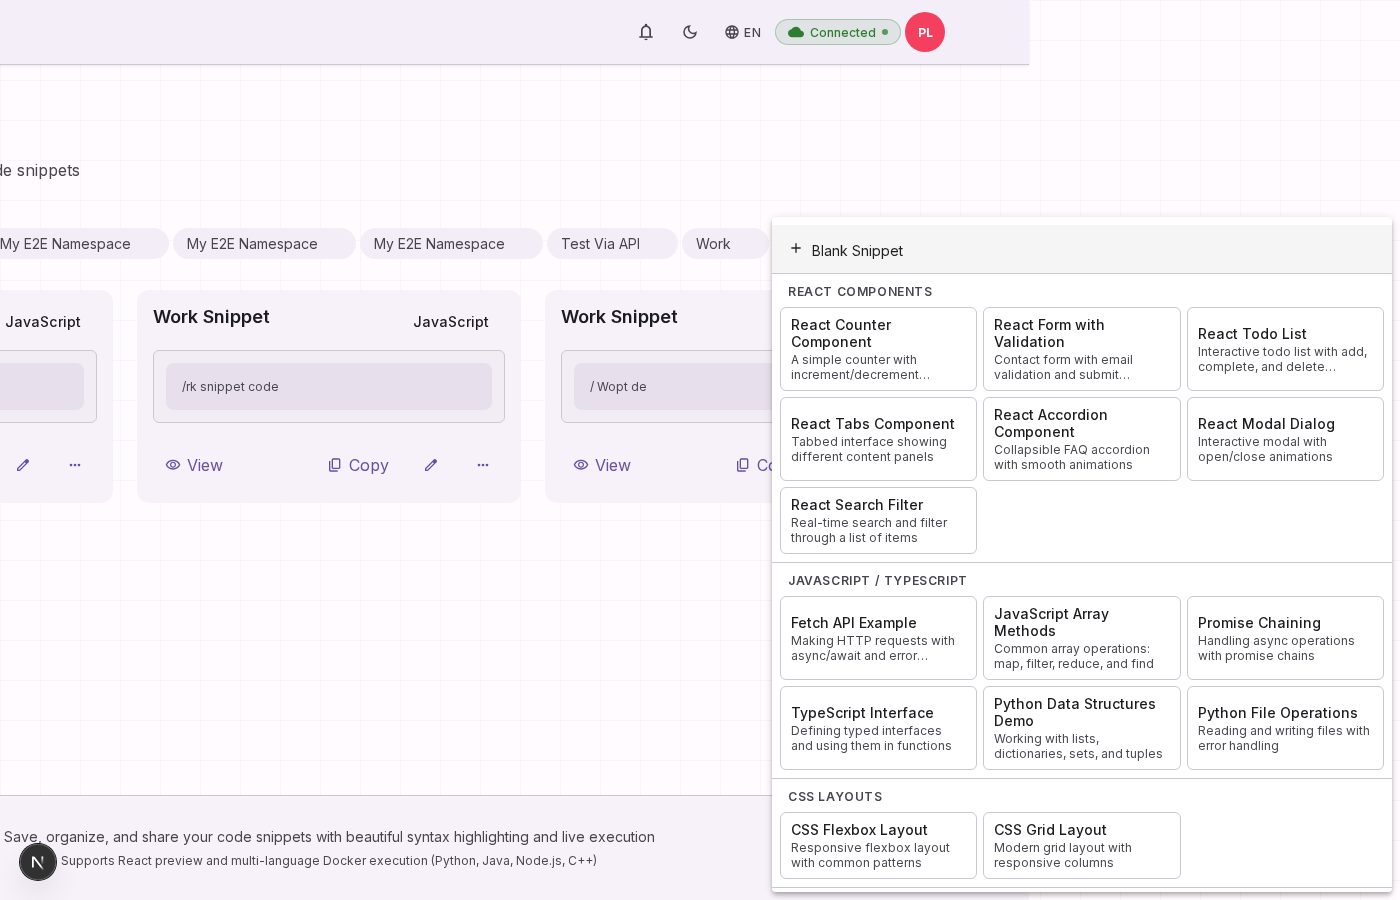
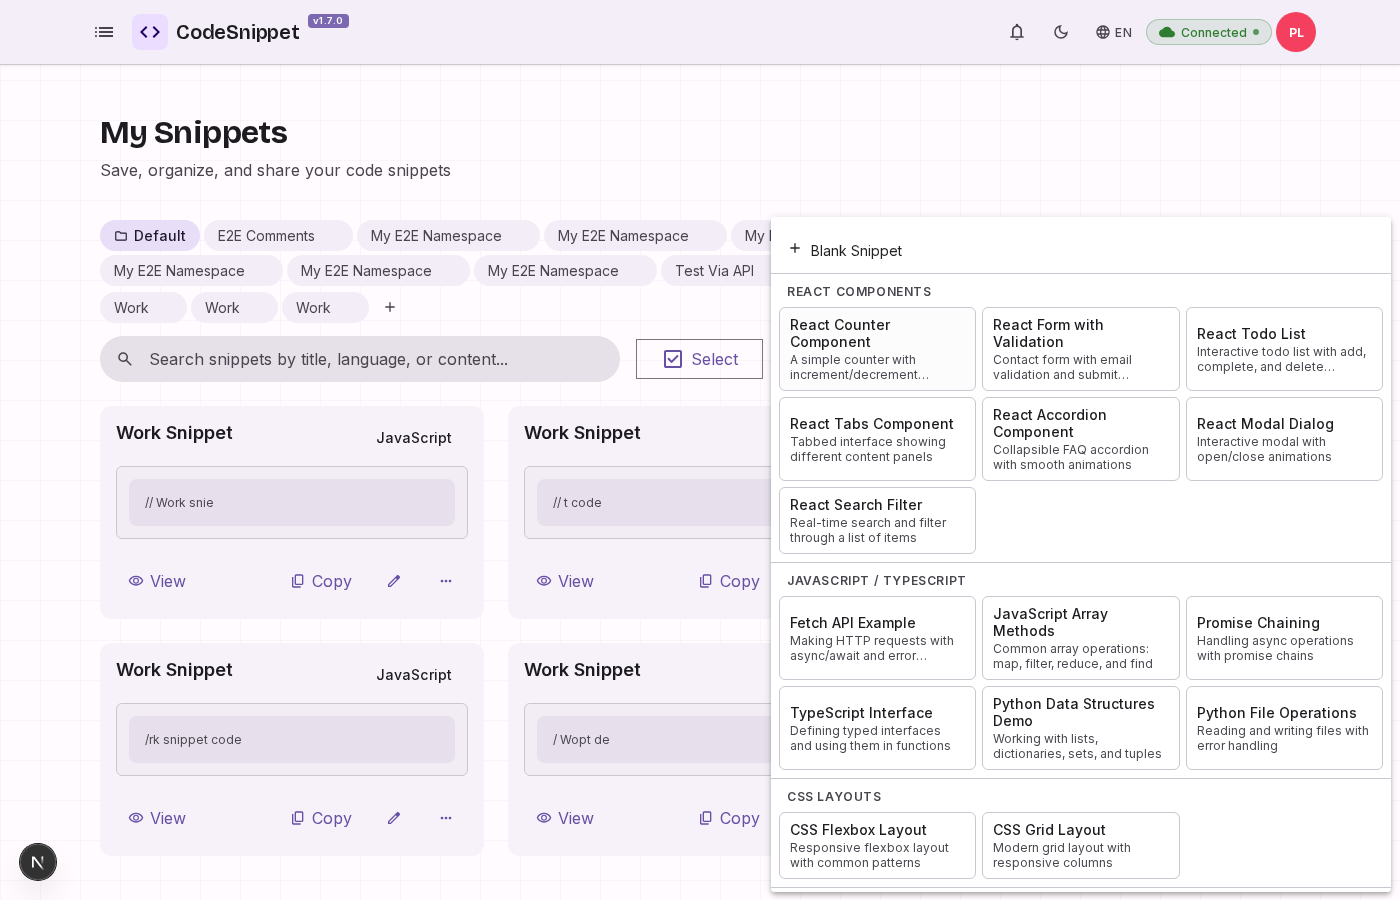
fix: pastebin responsive layout overflow + E2E selector reliability
- Namespace selector: min-width:0, width:100% for proper flex wrapping
- Snippet manager header: flex-wrap prevents toolbar overflow
- Search container: min-width:0 stops flex child from overflowing
- E2E: replace raw JS evaluate with waitForSelector + click by testId
- Updated screenshots reflecting layout changes

diff --git a/frontends/pastebin/src/components/features/namespace-manager/namespace-selector.module.scss b/frontends/pastebin/src/components/features/namespace-manager/namespace-selector.module.scss
@@ -2,8 +2,9 @@
   display: flex;
   align-items: center;
   gap: 4px;
-  flex-shrink: 0;
   flex-wrap: wrap;
+  min-width: 0;
+  width: 100%;
 }
 
 .chip {

diff --git a/frontends/pastebin/src/components/snippet-manager/snippet-toolbar.module.scss b/frontends/pastebin/src/components/snippet-manager/snippet-toolbar.module.scss
@@ -10,6 +10,7 @@
   position: relative;
   flex: 1;
   max-width: 520px;
+  min-width: 0;
 }
 
 .searchIcon {

diff --git a/frontends/pastebin/src/components/snippet-manager/snippet-manager.module.scss b/frontends/pastebin/src/components/snippet-manager/snippet-manager.module.scss
@@ -2,6 +2,7 @@
   display: flex;
   align-items: center;
   gap: 12px;
+  flex-wrap: wrap;
 }
 
 .root {
